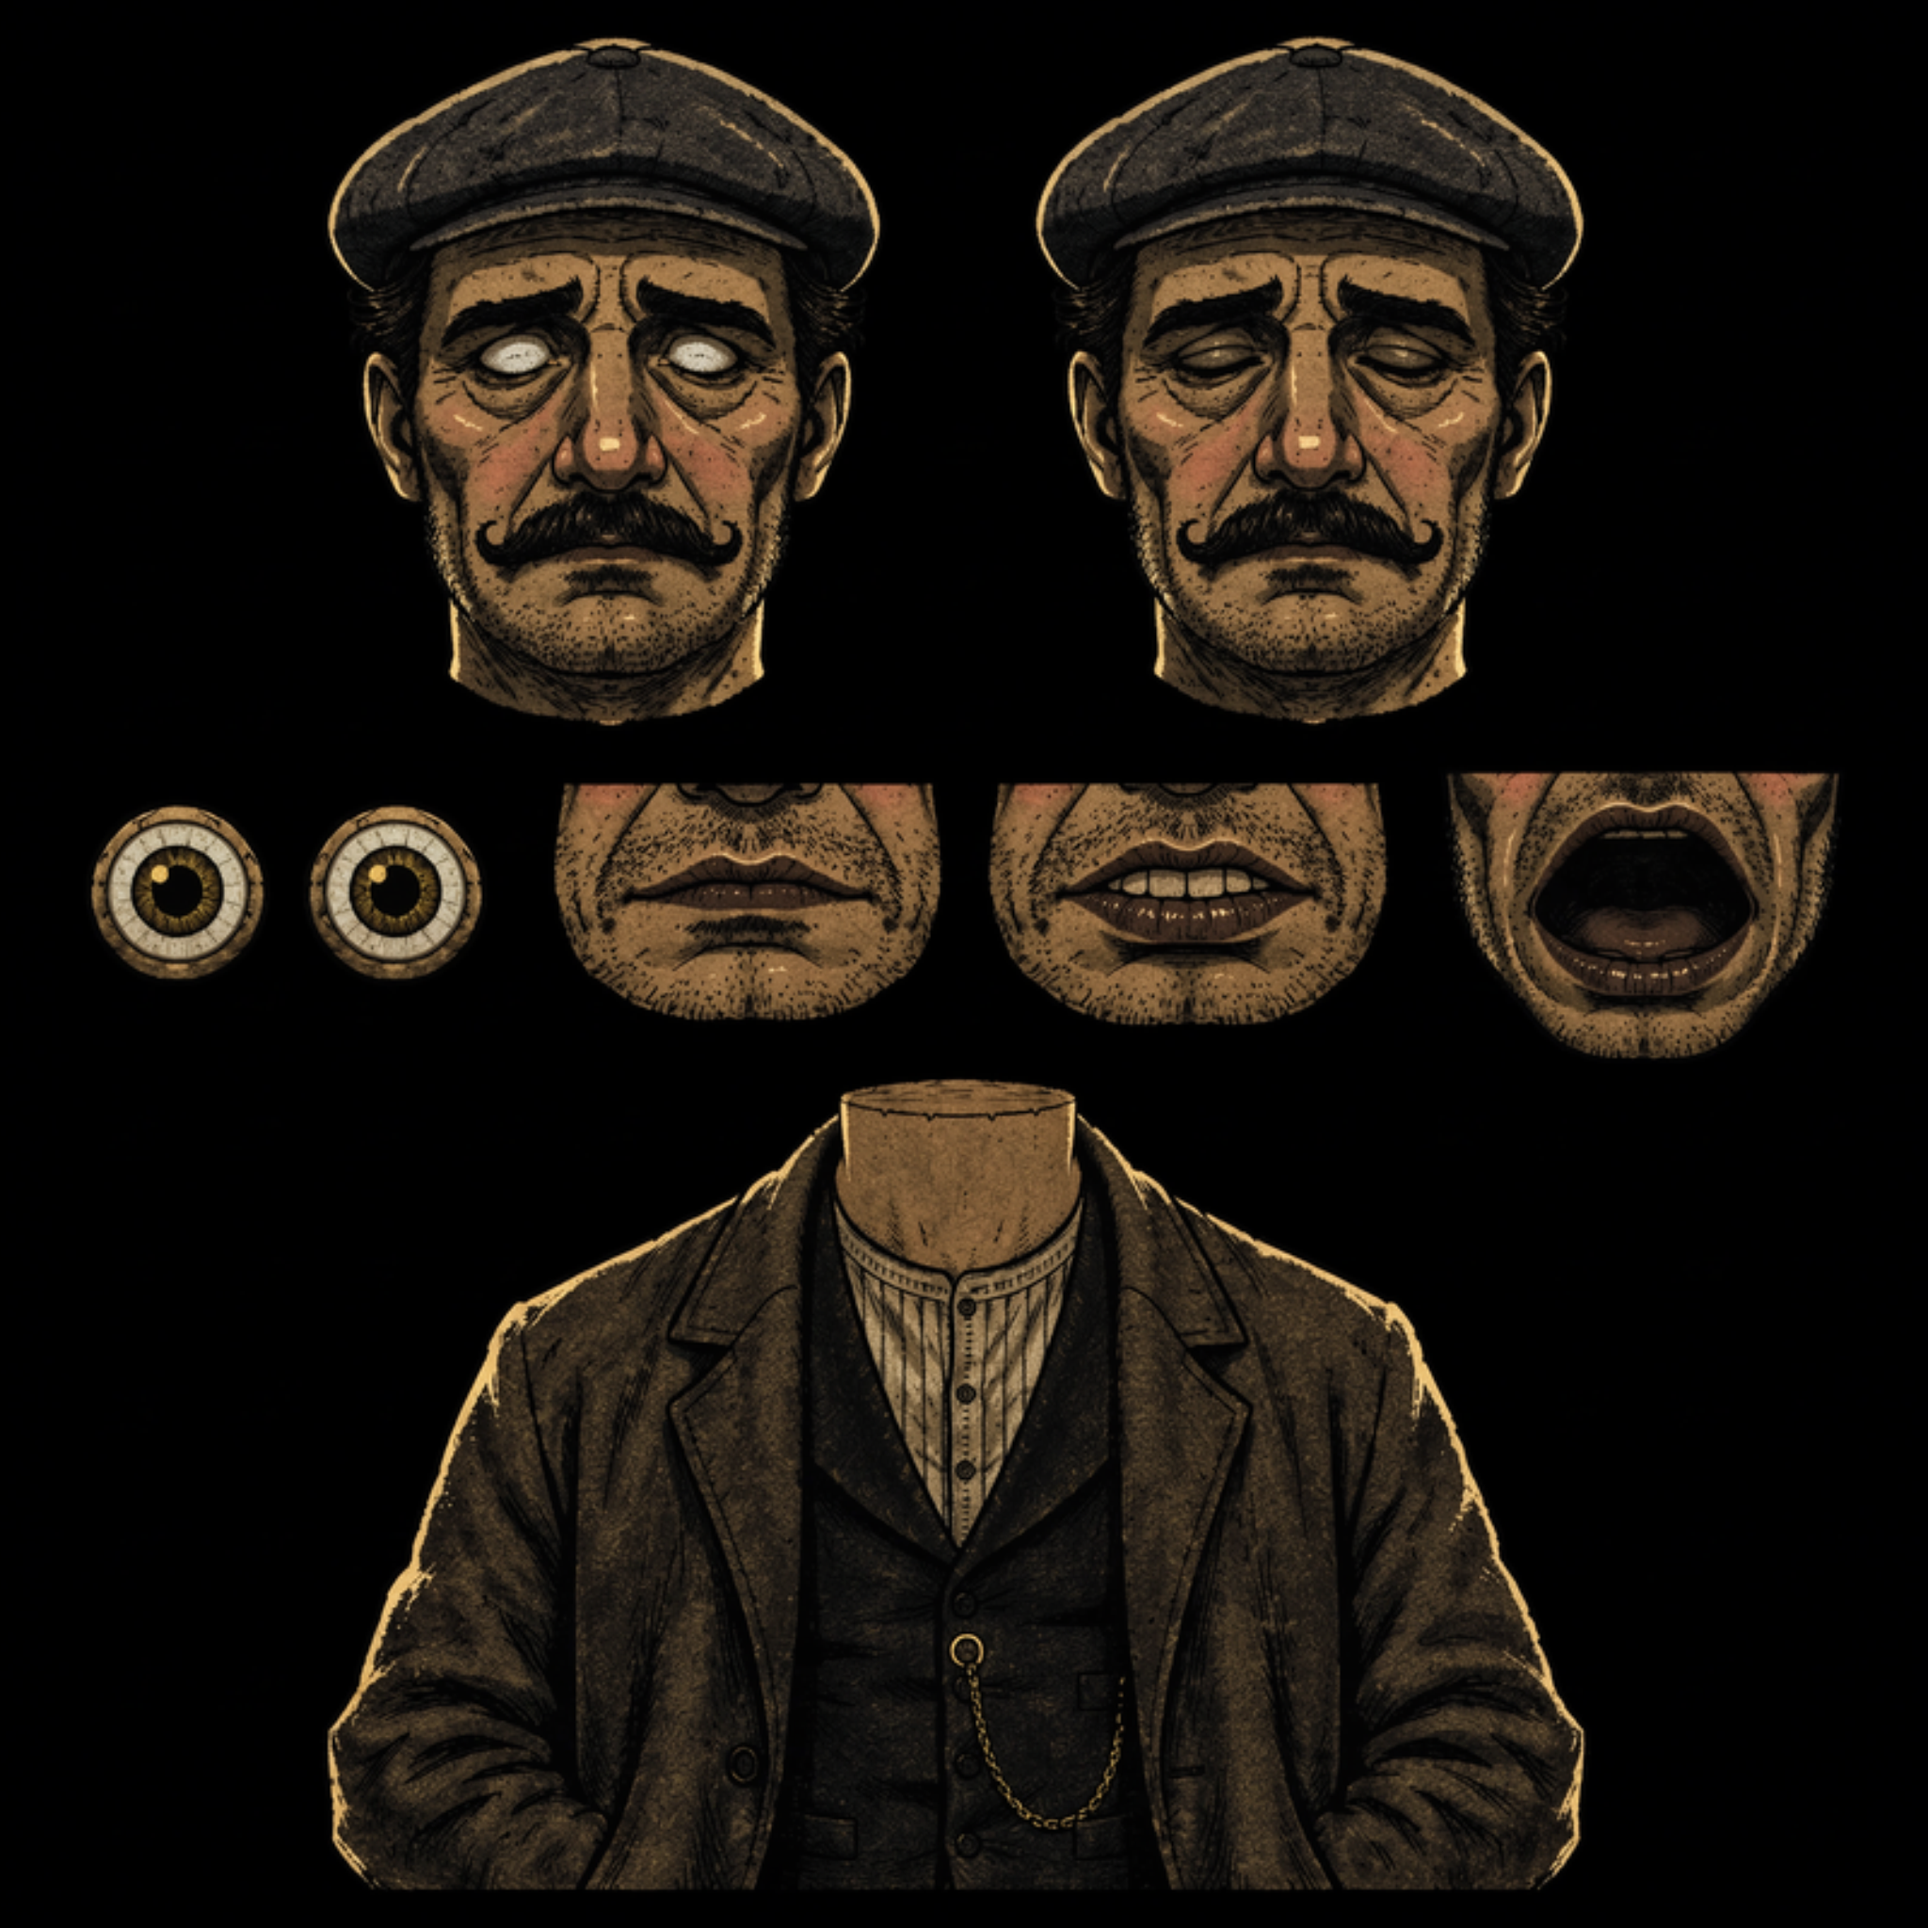
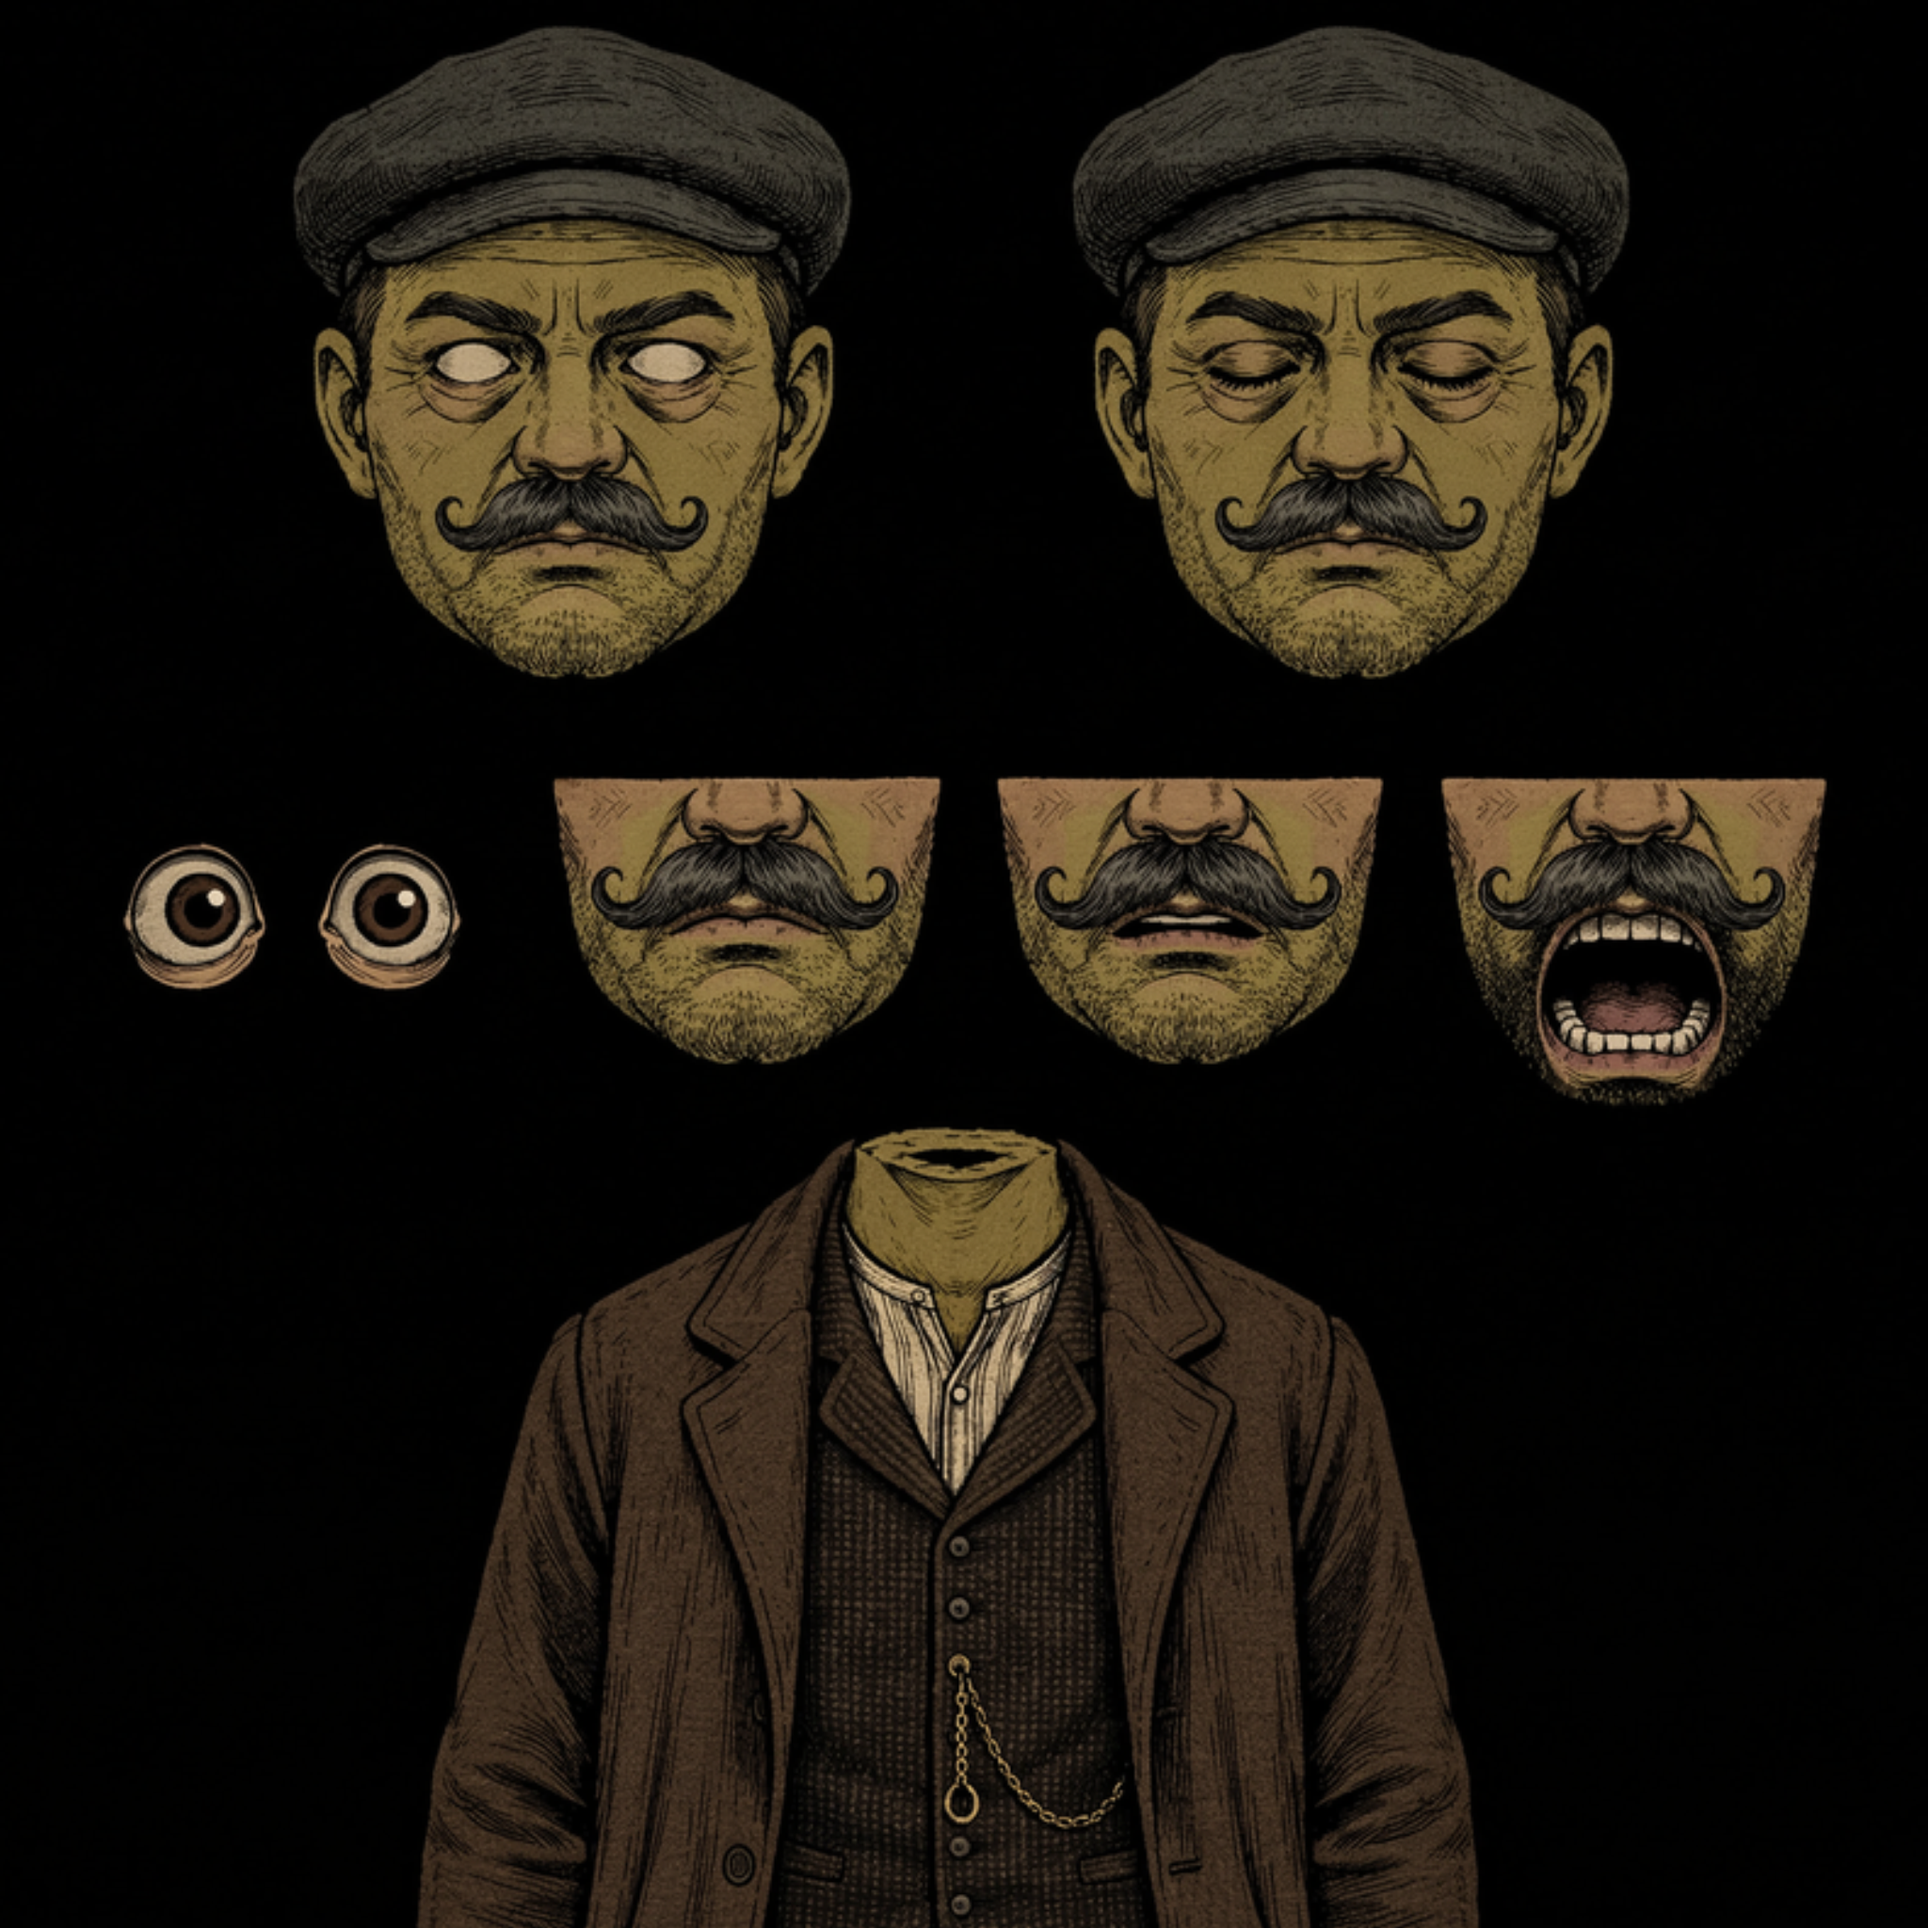
Muhtar yeniden: ağız parçaları bıyıklı; istemde ağız kuralı
Claude-Session: https://claude.ai/code/session_015fAnPMKLT8XYTEFeZ15TZf

diff --git a/gorsel-istekleri/kukla-istemi.md b/gorsel-istekleri/kukla-istemi.md
@@ -19,7 +19,7 @@ Top row, left to right:
 2. The same head, front view, eyes CLOSED (lids drawn as curved ink lines with lashes). Identical size and position to part 1.
 Middle row:
 3. Two separate round irises (dark brown, with a black pupil and a tiny highlight), drawn alone, about the size of the eye whites.
-4. Three mouths alone, same size as on the face, skin around them included: closed, half-open (teeth slightly visible), wide open (dark inside, tongue visible).
+4. Three mouths alone, cut from the SAME face at the same size and position as on the head: each mouth piece shows EVERYTHING that is around the mouth on the head exactly the same (moustache, beard, stubble, chin tattoo, wrinkles, nose tip), only the lips change: closed, half-open (teeth slightly visible), wide open (dark inside, tongue visible). A moustache or beard must NEVER be missing from the mouth pieces.
 Bottom row:
 5. Torso from the waist up WITH the neck attached at the top, NO head, the neck top cut flat; arms hanging down relaxed, hands not visible (cut at the bottom edge). Front view, the same width as the head would need.
 Skin color must be identical on the head, mouths and neck.
